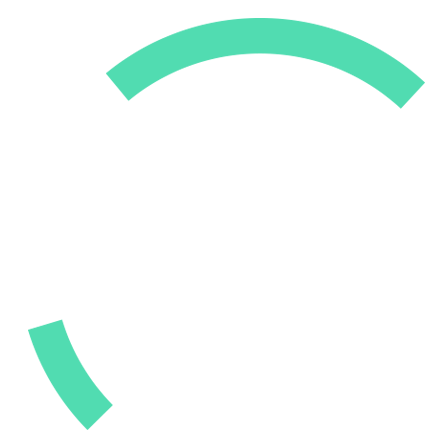
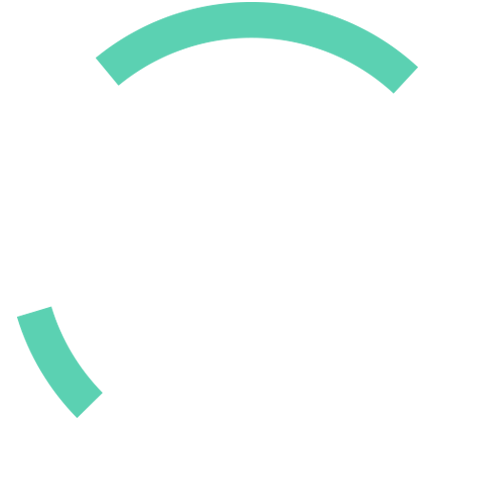
H5Web

Changed region(s): [[0.1789, 0.0, 0.7454, 0.2332], [0.0298, 0.6121, 0.2683, 0.9619], [0.7454, 0.0583, 0.9839, 0.2623]]

diff --git a/H5web/tencentAIDisplay/css/main.css b/H5web/tencentAIDisplay/css/main.css
@@ -39,61 +39,193 @@ img{
 
 .page-content{
 	position: relative;
-	height: auto;
+	height: 100%;
 }
 
 .page1-center{
 	position: absolute;
 	left: 50%;
-	top: 50%;
-	-webkit-transform: translate(-50%,-50%);
-	transform: translate(-50%,-50%);
-	width: 4rem;
-	height: 4rem;
+	top: 3.384rem;
+	-webkit-transform: translate(-50%,0%);
+	transform: translate(-50%,0%);
+	width: 4.28rem;
+	height: 4.28rem;
 }
 
 .ui-page1-rotate{
 	position: absolute;
-	max-width: 3.63rem;
-	left: 50%;
-	top: 50%;
-	-webkit-transform: translate(-50%,-50%);
-	transform: translate(-50%,-50%);
+	width: 4.108rem;
+	left: 0.09rem;
+	top: -0.61rem;
 	z-index: 2;
+	-webkit-animation: rotate-loop 4s linear infinite ;
+	animation: rotate-loop 4s linear infinite ;
 }
 
 .ui-page1-earth{
 	position: absolute;
 	z-index: 1;
 	left: 50%;
-	top: 50%;
-	-webkit-transform: translate(-50%,-50%);
-	transform: translate(-50%,-50%);
-	max-width: 3.392rem;
+	top: -0.6rem;
+	-webkit-transform: translate(-50%,0%);
+	transform: translate(-50%,0%);
+	-webkit-animation: earth-loop 3s linear infinite ;
+	animation: earth-loop 3s linear infinite ;
+	width: 4.117rem;
 }
 
 .ui-left-text{
 	position: absolute;
+	width: 4.392rem;
+	left: -0.6rem;
+	top: 0.2rem;
 	z-index: 3;
+	-webkit-transition: all 1s ease-out;
+	transition: all 1s ease-out;
+	opacity: 0;
+	-webkit-transform : translate(-0.4rem,0rem);
+	transform : translate(-0.4rem,0rem);
+}
+
+.page-active .ui-left-text{
+	opacity: 1;
+	-webkit-transform : translate(0rem,0rem);
+	transform : translate(0rem,0rem);
+}
+
+.ui-right-text{
+	position: absolute;
+	width: 4.408rem;
+	left: 0.6rem;
+	top: 1.2rem;
+	z-index: 3;
+	-webkit-transition: all 1s ease-out 1s;
+	transition: all 1s ease-out 1s;
+	opacity: 0;
+	-webkit-transform : translate(0.4rem,0rem);
+	transform : translate(0.4rem,0rem);
+}
+
+.page-active .ui-right-text{
+	opacity: 1;
+	-webkit-transform : translate(0rem,0rem);
+	transform : translate(0rem,0rem);
+}
+
+.ui-canvas-loop{
+	position: absolute;
+	width: 0.867rem;
+	height: 1.6rem;
+	left: -0.84rem;
+	bottom: 0.3rem;
+	overflow: hidden;
+}
+
+#canvas-loop{
+	max-width: 100%;
+}
+
+.ui-arrow-loop{
+	position: absolute;
+	width: 0.842rem;
+	left: 50%;
+	bottom: -0.5rem;
+	-webkit-transform: translateX(-50%);
+	transform: translateX(-50%);
+	-webkit-animation: arrow-loop 2s linear infinite;
+	animation: arrow-loop 2s linear infinite;
+}
+
+.ui-page1-btn{
+	position: absolute;
+	width: 2.908rem;
+	left: 50%;
+	-webkit-transform: translateX(-50%) translateY(0.3rem);
+	transform: translateX(-50%) translateY(0.3rem);
+	bottom: -2.38rem;
+	-webkit-transition: all 1s linear 2s;
+	transition: all 1s linear 2s;
+	opacity: 0;
+	-webkit-tap-highlight-color: rgba(0,0,0,0);
+}
+
+.page-active .ui-page1-btn{
+	opacity: 1;
+	-webkit-transform: translateX(-50%) translateY(0rem);
+	transform: translateX(-50%) translateY(0rem);
+}
+
+.loading{
+	position: fixed;
+	left: 0rem;
+	top: 0rem;
+	width: 100%;
+	height: 100%;
+	z-index: 1000;
+	background: #222;
 }
 
 /*************************Animate***************************/
 @-webkit-keyframes arrow-loop{
 	0%{
-		-webkit-transform: translateY(0rem);
+		opacity: 0.2;
+		-webkit-transform:translateX(-50%) translateY(-0.2rem);
 	}
 
 	100%{
-		-webkit-transform: translateY(1rem);
+		opacity: 1;
+		-webkit-transform:translateX(-50%) translateY(0.2rem);
 	}
 }
 
 @keyframes arrow-loop{
 	0%{
-		transform: translateY(0rem);
+		opacity: 0.2;
+		transform:translateX(-50%) translateY(-0.2rem);
 	}
 
 	100%{
-		transform: translateY(1rem);
+		opacity: 1;
+		transform:translateX(-50%) translateY(0.2rem);
+	}
+}
+
+@-webkit-keyframes rotate-loop{
+	0%{
+		-webkit-transform: rotate(0deg);
+	}
+
+	100%{
+		-webkit-transform: rotate(359deg);
+	}
+}
+
+@keyframes rotate-loop{
+	0%{
+		transform: rotate(0deg);
+	}
+
+	100%{
+		transform: rotate(359deg);
+	}
+}
+
+@-webkit-keyframes earth-loop{
+	0%{
+		-webkit-transform: translate(-50%,0%) rotate(360deg);
+	}
+
+	100%{
+		-webkit-transform: translate(-50%,0%) rotate(1deg);
+	}
+}
+
+@keyframes earth-loop{
+	0%{
+		transform: translate(-50%,0%) rotate(360deg);
+	}
+
+	100%{
+		transform: translate(-50%,0%) rotate(1deg);
 	}
 }

diff --git a/H5web/tencentAIDisplay/index.html b/H5web/tencentAIDisplay/index.html
@@ -8,16 +8,19 @@
 <meta http-equiv="Pragma" content="no-cache">
 <link rel="stylesheet" type="text/css" href="css/style.css">
 <link rel="stylesheet" type="text/css" href="css/swiper.min.css">
-<link rel="stylesheet" type="text/css" href="css/main.css?v=1.1">
+<link rel="stylesheet" type="text/css" href="css/main.css?v=1.32">
 <title></title>
 </head>
 <body>
+<div class="loading">
+	<div class="loading-content"></div>
+</div>
 
 <section id="container">
 	<div class="swiper-container">
 		<div class="swiper-wrapper">
 			<div class="swiper-slide">
-				<div class="page page-1" data-active="false">
+				<div class="page page-1">
 					<div class="page-bg">
 						<img src="images/bg1.jpg" data-src="images/bg1.jpg" >
 					</div>
@@ -48,13 +51,16 @@
 					</div>
 				</div>
 			</div>
+			<div class="swiper-slide">
+				<div class="page page-2"></div>
+			</div>
 		</div>
 	</div>
 </section>
 
 <script type="text/javascript" src="js/jquery.min.js"></script>
 <script type="text/javascript" src="js/swiper.min.js"></script>
-<script type="text/javascript" src="js/functions.js"></script>
-<script type="text/javascript" src="js/main.js?v=1"></script>
+<script type="text/javascript" src="js/functions.js?v=1.33"></script>
+<script type="text/javascript" src="js/main.js?v=1.4"></script>
 </body>
 </html>

diff --git a/H5web/tencentAIDisplay/js/functions.js b/H5web/tencentAIDisplay/js/functions.js
@@ -2,6 +2,8 @@
 
 var fn = {};
 
+window.requestAnimationFrame = window.requestAnimationFrame || window.webkitRequestAnimationFrame;
+
 /********************逐字显示********************/
 function showfont(arr,i,timespace,callback){
 
@@ -39,16 +41,17 @@ fn.showfonts = function(str,timespace,callback){
 
 /*********************滚动背景**************************/
 function loopDrawImg(tcxt,scv,w,h,i){
-	tcxt.clearRect(0,0,w,h);
-	tcxt.save();
-	tcxt.drawImage(scv,0,0,w,h-i,0,i,w,h-i);
-	tcxt.drawImage(scv,0,h-i,w,i,0,0,w,i);
-	tcxt.restore();
-
 	requestAnimationFrame(function(){
 		i >= h ? i = 0 : i++;
 		loopDrawImg(tcxt,scv,w,h,i);
 	});
+
+	tcxt.clearRect(0,0,w,h);
+	tcxt.save();
+	tcxt.drawImage(scv,0,0,w,h-i,0,i,w,h-i);
+	if(i!=0) 
+	tcxt.drawImage(scv,0,h-i,w,i,0,0,w,i);
+	tcxt.restore();
 }
 
 
@@ -80,7 +83,7 @@ fn.createFrameImg = function(canvas,imgUrl){
 		newCanvas.height = h;
 		canvas.width = w;
 		canvas.height = h;
-		console.log(canvas);
+
 		drawFrameImg(canvas,newCanvas,img);
 
 	};

diff --git a/H5web/tencentAIDisplay/js/main.js b/H5web/tencentAIDisplay/js/main.js
@@ -5,4 +5,38 @@ var swiper = new Swiper('.swiper-container',{
 });
 
 
+function loadEnd(){
+	if( $i == $len ){
+		$(".loading").hide();
+		$(".page-1").addClass("page-active");
+		utils.createFrameImg($("#canvas-loop")[0],"images/code.png");
+		return false;
+	}
+
+	$(".loading-content").html( ( $i/$len ) >> 0 );
+}
+
+var $len = $("img[data-src]").length,
+	$i = 0;
+
+$("img[data-src]").each(function(){
+
+	var img = $(this)[0],
+		src = $(this).attr("data-src");
+
+	img.onload = function(){
+		$i++;
+		loadEnd();
+	};
+
+	img.onerror = function(){
+		$i++;
+		loadEnd();
+	};
+
+	img.src = src+"?ver="+new Date().getTime();
+
+});
+
+
 });
